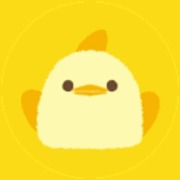
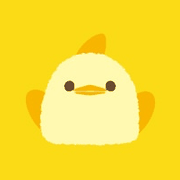
アイコンを元画像から作り直し（ホーム画面用を高画質の正方形に）

diff --git a/docs/index.html b/docs/index.html
@@ -9,8 +9,8 @@
 <meta name="apple-mobile-web-app-status-bar-style" content="default">
 <meta name="apple-mobile-web-app-title" content="ぴよりん">
 <link rel="manifest" href="manifest.webmanifest">
-<link rel="icon" type="image/png" href="favicon.png">
-<link rel="apple-touch-icon" href="apple-touch-icon.png">
+<link rel="icon" type="image/png" href="favicon.png?v=2">
+<link rel="apple-touch-icon" href="apple-touch-icon.png?v=2">
 <title>ぴよりんニュース</title>
 <link rel="preconnect" href="https://fonts.googleapis.com">
 <link rel="preconnect" href="https://fonts.gstatic.com" crossorigin>
@@ -289,7 +289,7 @@ a,button,summary{touch-action:manipulation;-webkit-tap-highlight-color:transpare
   <aside>
     <div class="brand">
       <span class="eyebrow">Piyorin News Watch</span>
-      <a href="./" class="home" id="home" aria-label="ぴよりんニュース トップへ"><h1><img class="yolk" src="icon.png" alt="" width="36" height="36">ぴよりんニュース</h1></a>
+      <a href="./" class="home" id="home" aria-label="ぴよりんニュース トップへ"><h1><img class="yolk" src="icon.png?v=2" alt="" width="36" height="36">ぴよりんニュース</h1></a>
       <p>名古屋のひよこプリン「ぴよりん」の公式発表・プレスリリース・メディア記事をまとめて追いかけます。</p>
     </div>
 
